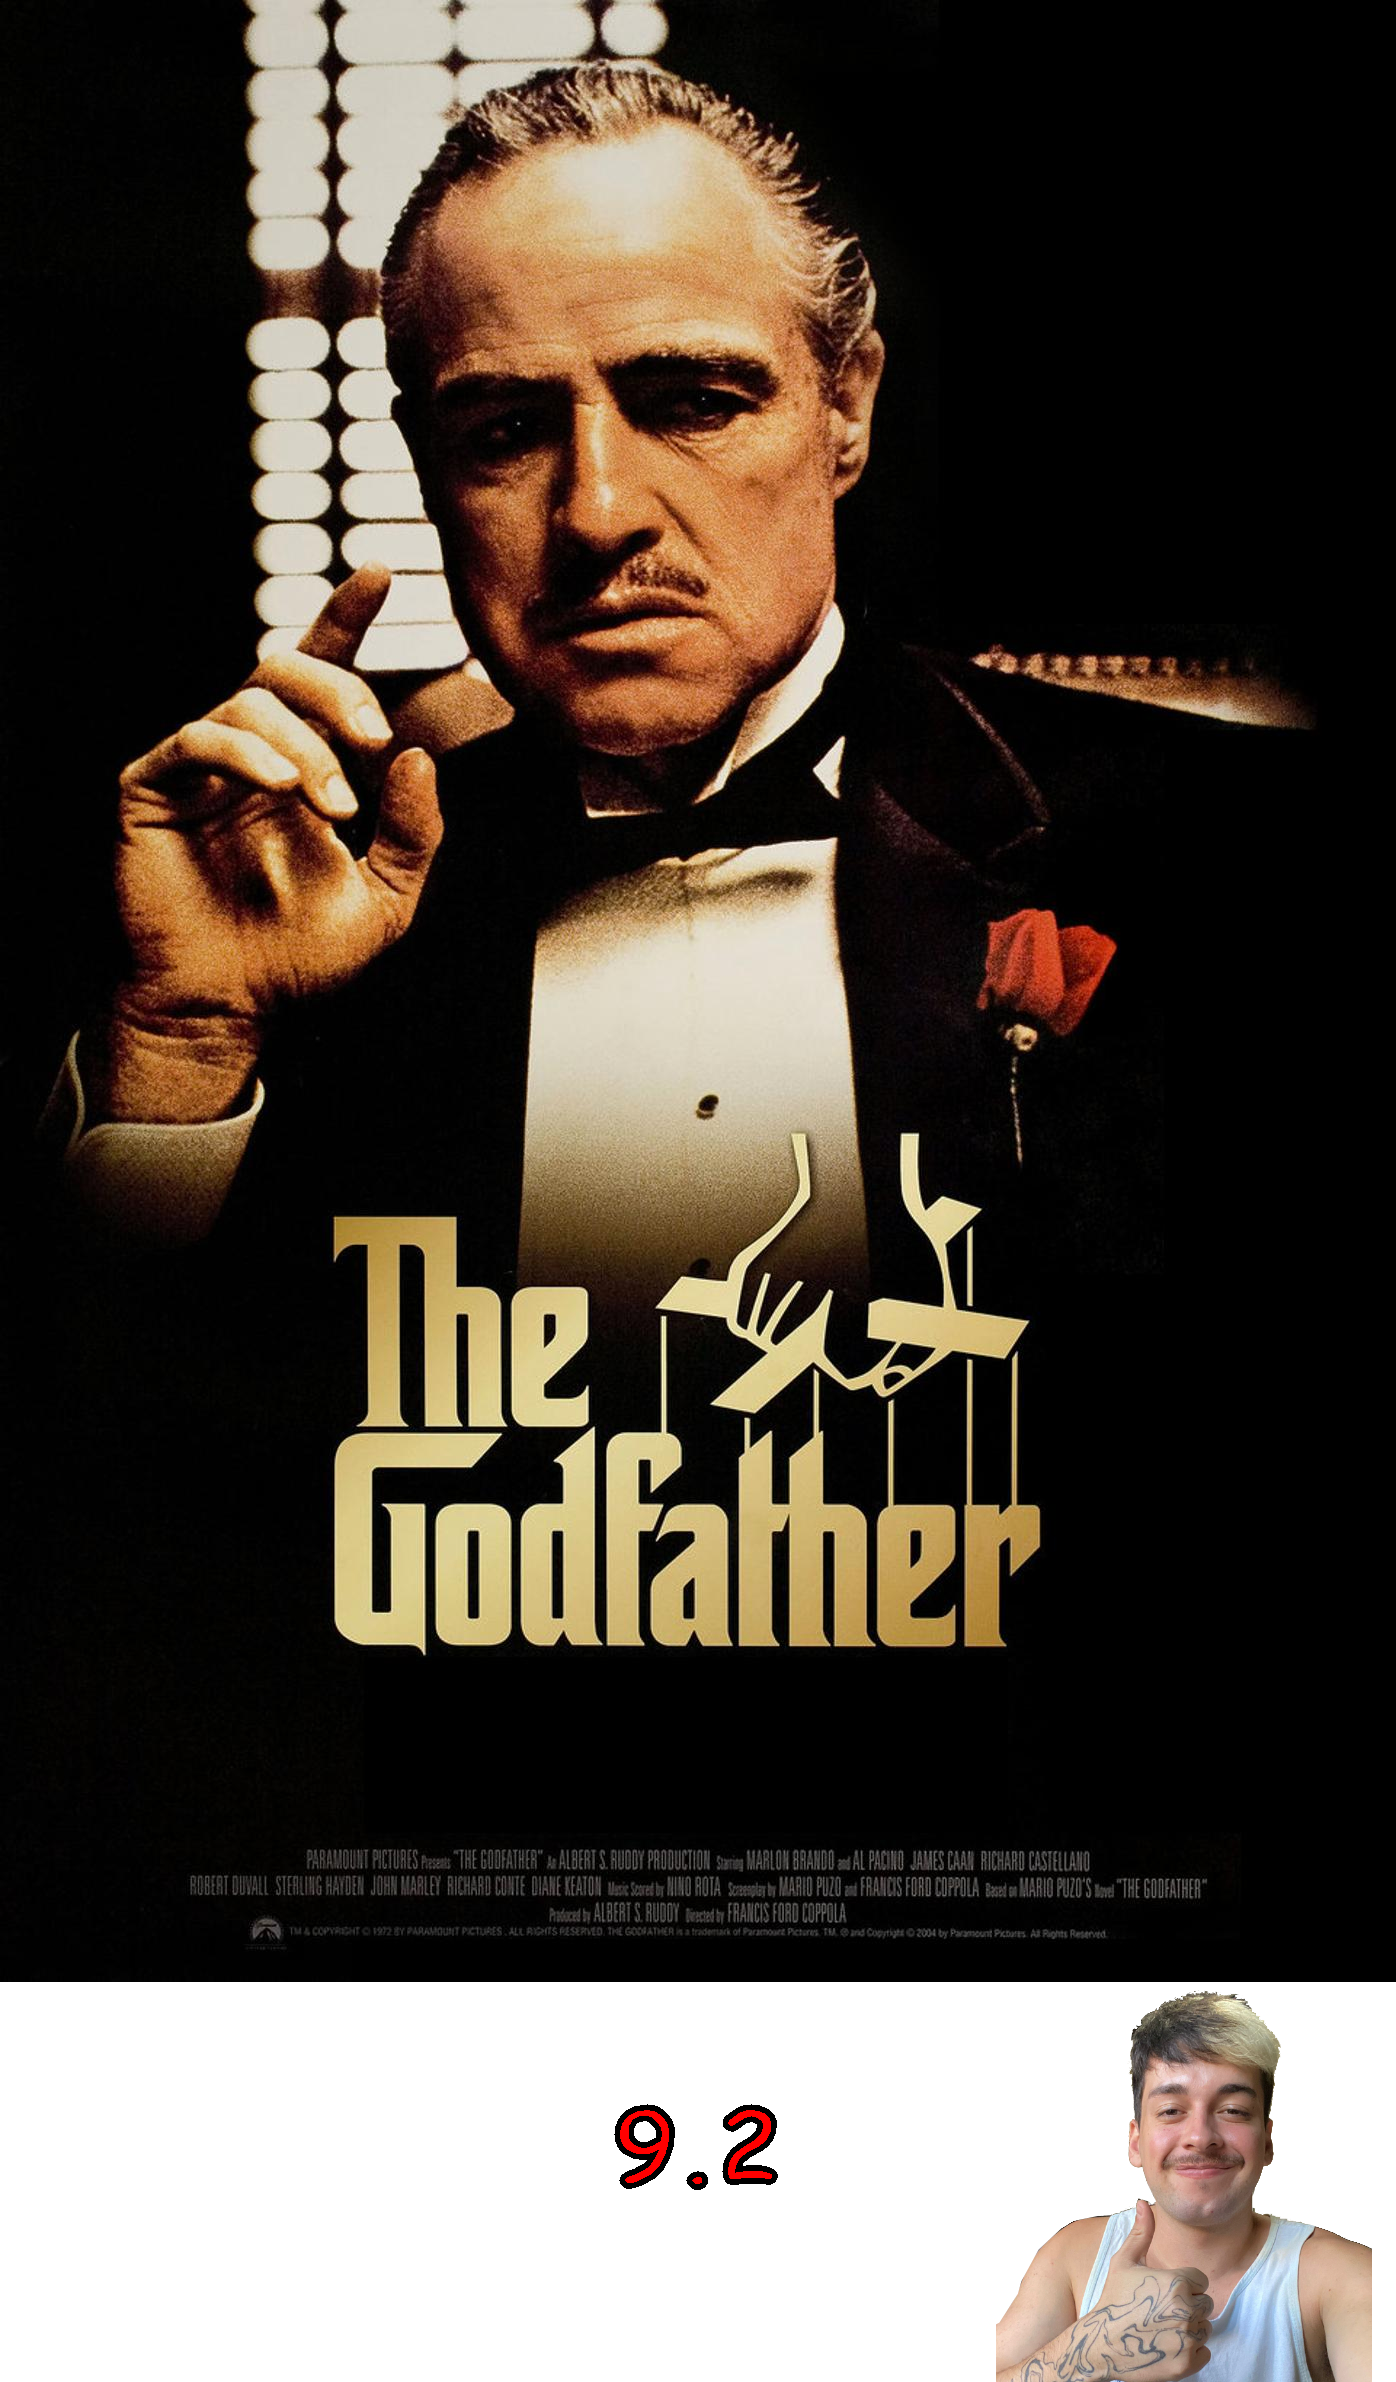
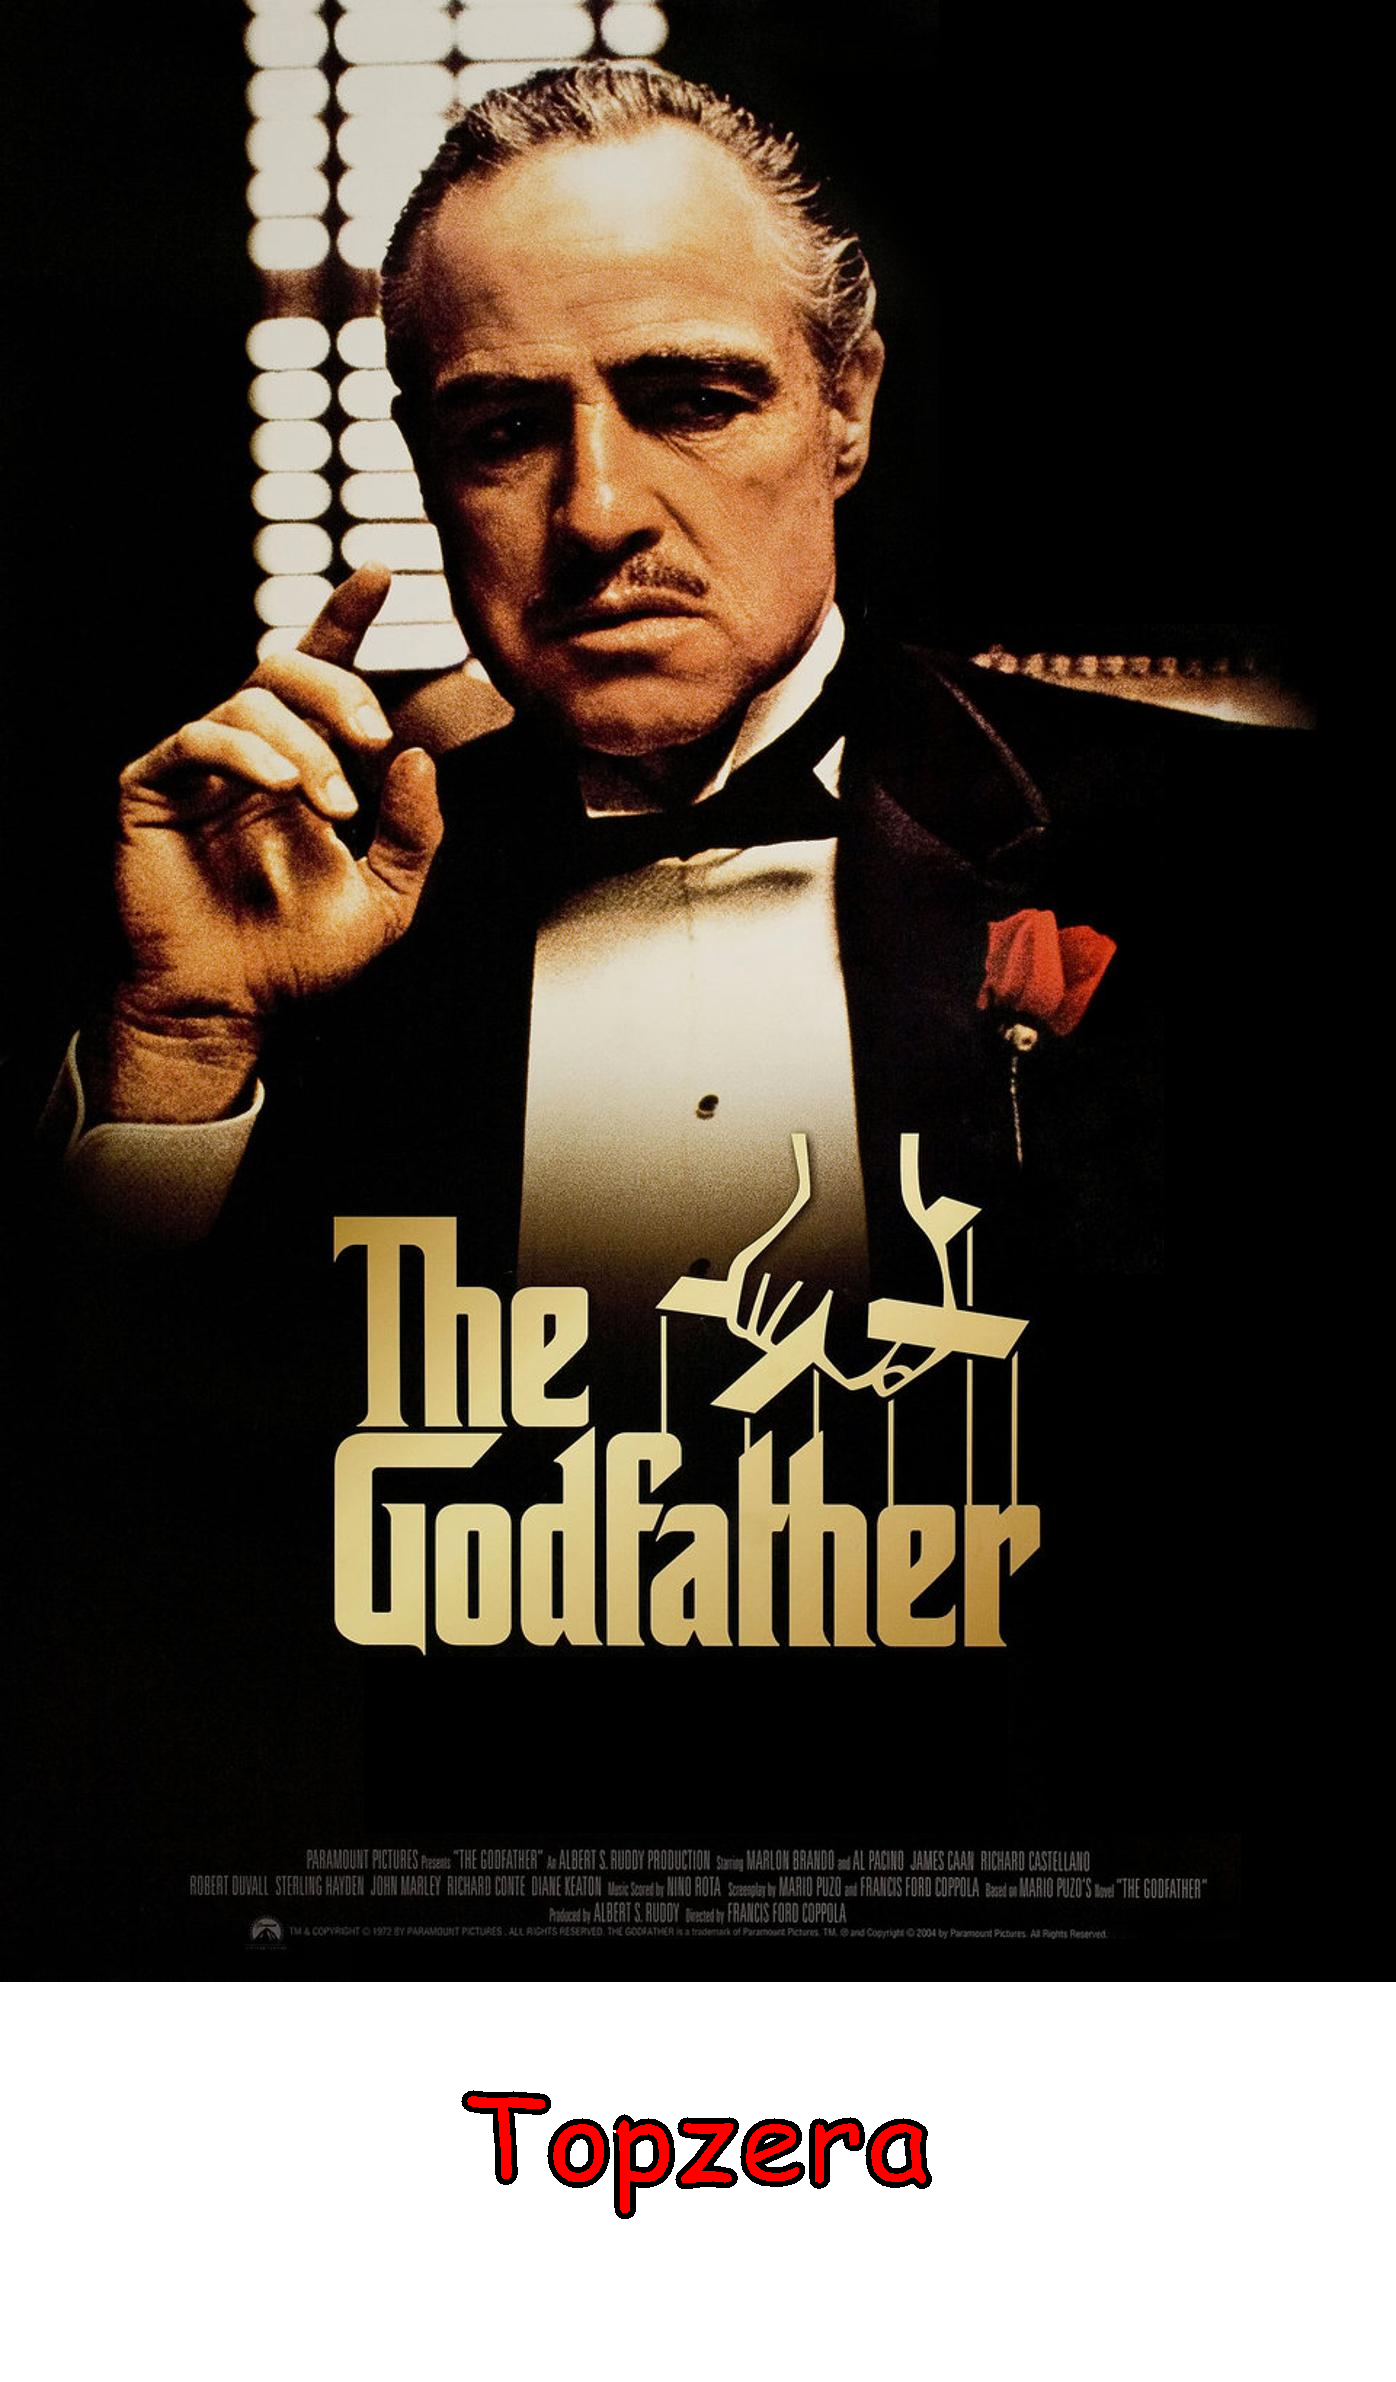
Terceira aula

Changed region(s): [[0.7085, 0.8388, 0.9857, 1.0], [0.3388, 0.8699, 0.6777, 0.932]]

diff --git a/src/App.java b/src/App.java
@@ -1,52 +1,36 @@
 import java.io.InputStream;
-import java.net.URI;
 import java.net.URL;
-import java.net.http.HttpClient;
-import java.net.http.HttpRequest;
-import java.net.http.HttpResponse;
-import java.net.http.HttpResponse.BodyHandlers;
 import java.util.List;
-import java.util.Map;
 
 public class App {
     public static void main(String[] args) throws Exception {
         // fazer uma conexao HTTP e buscar os top 250 filmes imdb
 
         String url = "https://raw.githubusercontent.com/alura-cursos/imersao-java-2-api/main/TopMovies.json";
-        URI address = URI.create(url);
-        HttpClient client = HttpClient.newHttpClient();
-        HttpRequest request = HttpRequest.newBuilder(address).GET().build();
-        HttpResponse<String> response = client.send(request, BodyHandlers.ofString());
-        String body = response.body();
+        ExtratorDeConteudos extrator = new ExtratorDeConteudoDoIMDB();
 
-        // pegar só os dados que interessam: titulo, poster e classificacao
-        JsonParser parser = new JsonParser();
-        List<Map<String, String>> listaDeFilmes = parser.parse(body);
+        // String url =
+        // "https://api.nasa.gov/planetary/apod?api_key=eWg4JHWqe2Ioe8Iu9M2ueuQGtjdptP5OExNlF8N9&start_date=2022-06-12&end_date=2022-06-14";
+        // ExtratorDeConteudoDaNasa extrator = new ExtratorDeConteudoDaNasa();
+
+        ClienteHttp http = new ClienteHttp();
+        String json = http.buscaDados(url);
 
         // exibir e manipular os dados
+        List<Conteudo> conteudos = extrator.extraiConteudos(json);
+
         GeradoraDeFigurinhas geradora = new GeradoraDeFigurinhas();
-        for (Map<String, String> filme : listaDeFilmes) {
-            String urlImage = filme.get("image");
-            String fullTitle = filme.get("fullTitle");
-            String filmName = fullTitle + ".png";
-            String archiveName = filmName.replace(":", "-");
-            String imdbRating = filme.get("imDbRating");
+        for (Conteudo conteudo : conteudos) {
 
-            InputStream inputStream = new URL(urlImage).openStream();
+            String nomeArquivo = conteudo.getTitle() + ".png";
+            InputStream inputStream = new URL(conteudo.getUrlImagem()).openStream();
 
-            geradora.cria(inputStream, archiveName,imdbRating);
+            geradora.cria(inputStream, nomeArquivo);
 
-            System.out.println("\u001b[0mTítulo: \033[1;90m\u001b[47m\t" + fullTitle + "\u001b[0m");
-            System.out.println("\u001b[0mPoster: \u001b[34m\u001b[4m\t" + urlImage + "\u001b[0m");
-            System.out.print("\u001b[0mClassificação:  \033[1;90m" + imdbRating + "\u001b[0m ");
+            System.out.println("\u001b[0mTítulo: \033[1;90m\u001b[47m\t" + conteudo.getTitle() + "\u001b[0m");
+            System.out.println("\u001b[0mPoster: \u001b[34m\u001b[4m\t" + conteudo.getUrlImagem() + "\u001b[0m");
+            System.out.println();
 
-            double doubleRating = Double.valueOf(imdbRating);
-            int intRating = (int) doubleRating;
-
-            for (int i = 0; i < intRating; i++) {
-                System.out.print("⭐");
-            }
-            System.out.println("\n");
         }
     }
 }

diff --git a/src/GeradoraDeFigurinhas.java b/src/GeradoraDeFigurinhas.java
@@ -10,14 +10,13 @@ import java.awt.geom.AffineTransform;
 import java.awt.geom.Rectangle2D;
 import java.awt.image.BufferedImage;
 import java.io.File;
-import java.io.FileInputStream;
 import java.io.InputStream;
 
 import javax.imageio.ImageIO;
 
 public class GeradoraDeFigurinhas {
 
-    public void cria(InputStream inputStream, String archiveName, String imdbRating) throws Exception {
+    public void cria(InputStream inputStream, String archiveName) throws Exception {
 
         // leitura da imagem
         // InputStream inputStream = new FileInputStream(new
@@ -38,24 +37,22 @@ public class GeradoraDeFigurinhas {
         Graphics2D graphics = (Graphics2D) newImage.getGraphics();
         graphics.drawImage(imageOriginal, 0, 0, null);
 
-        BufferedImage imageLike = ImageIO.read(new FileInputStream(new File("images/LIKE.png")));
-        graphics.drawImage(imageLike, width-400, height, null);
-
         // configurar a fonte
-        Font font = new Font("Comic Sans MS", Font.BOLD, 100);
+        Font font = new Font("Comic Sans MS", Font.BOLD, 120);
         graphics.setColor(Color.RED);
         graphics.setFont(font);
 
         // escrever uma frase na nova imagem
         FontMetrics fontMetrics = graphics.getFontMetrics();
-        Rectangle2D rectangle = fontMetrics.getStringBounds(imdbRating, graphics);
+        String text = "Topzera";
+        Rectangle2D rectangle = fontMetrics.getStringBounds(text, graphics);
         int textWidth = (int) rectangle.getWidth();
         int positionX = (width - textWidth) / 2;
         int positionY = newHeight - 200;
-        graphics.drawString(imdbRating, positionX, positionY);
+        graphics.drawString(text, positionX, positionY);
 
         FontRenderContext fontRenderContext = graphics.getFontRenderContext();
-        TextLayout textLayout = new TextLayout(imdbRating, font, fontRenderContext);
+        TextLayout textLayout = new TextLayout(text, font, fontRenderContext);
 
         Shape outline = textLayout.getOutline(null);
         AffineTransform transform = graphics.getTransform();

diff --git a/src/ExtratorDeConteudoDoIMDB.java b/src/ExtratorDeConteudoDoIMDB.java
@@ -1,0 +1,26 @@
+import java.util.ArrayList;
+import java.util.List;
+import java.util.Map;
+
+public class ExtratorDeConteudoDoIMDB implements ExtratorDeConteudos {
+
+    public List<Conteudo> extraiConteudos(String json) {
+
+        // pegar só os dados que interessam: titulo, poster e classificacao
+        JsonParser parser = new JsonParser();
+        List<Map<String, String>> listaDeAtributos = parser.parse(json);
+
+        List<Conteudo> conteudos = new ArrayList<Conteudo>();
+
+        // popular a lista de conteudos
+        for (Map<String, String> atributos : listaDeAtributos) {
+            String tituloInteiro = atributos.get("fullTitle");
+            String titulo = tituloInteiro.replace(":", " -");
+            String urlImagem = atributos.get("image");
+            Conteudo conteudo = new Conteudo(titulo, urlImagem);
+
+            conteudos.add(conteudo);
+        }
+        return conteudos;
+    }
+}

diff --git a/src/ExtratorDeConteudoDaNasa.java b/src/ExtratorDeConteudoDaNasa.java
@@ -1,0 +1,26 @@
+import java.util.ArrayList;
+import java.util.List;
+import java.util.Map;
+
+public class ExtratorDeConteudoDaNasa implements ExtratorDeConteudos {
+
+    public List<Conteudo> extraiConteudos(String json) {
+
+        // pegar só os dados que interessam: titulo, poster e classificacao
+        JsonParser parser = new JsonParser();
+        List<Map<String, String>> listaDeAtributos = parser.parse(json);
+
+        List<Conteudo> conteudos = new ArrayList<>();
+
+        // popular a lista de conteudos
+        for (Map<String, String> atributos : listaDeAtributos) {
+            String tituloInteiro = atributos.get("title");
+            String titulo = tituloInteiro.replace(":", " -");
+            String urlImagem = atributos.get("url");
+            Conteudo conteudo = new Conteudo(titulo, urlImagem);
+
+            conteudos.add(conteudo);
+        }
+        return conteudos;
+    };
+}

diff --git a/src/ClienteHttp.java b/src/ClienteHttp.java
@@ -1,0 +1,24 @@
+import java.io.IOException;
+import java.net.URI;
+import java.net.http.HttpClient;
+import java.net.http.HttpRequest;
+import java.net.http.HttpResponse;
+import java.net.http.HttpResponse.BodyHandlers;
+
+public class ClienteHttp {
+
+    public String buscaDados(String url) {
+        try {
+            URI endereço = URI.create(url);
+            HttpClient client = HttpClient.newHttpClient();
+            HttpRequest request = HttpRequest.newBuilder(endereço).GET().build();
+            HttpResponse<String> response = client.send(request, BodyHandlers.ofString());
+            String body = response.body();
+            return body;
+        } catch (IOException | InterruptedException ex) {            
+            throw new RuntimeException(ex);
+        }
+       
+    }
+
+}

diff --git a/src/Conteudo.java b/src/Conteudo.java
@@ -1,0 +1,17 @@
+public class Conteudo {
+    private final String title;
+    private final String urlImagem;
+
+    public Conteudo(String title, String urlImagem) {
+        this.title = title;
+        this.urlImagem = urlImagem;
+    }
+
+    public String getTitle() {
+        return title;
+    }
+
+    public String getUrlImagem() {
+        return urlImagem;
+    }
+}

diff --git a/src/ExtratorDeConteudos.java b/src/ExtratorDeConteudos.java
@@ -1,0 +1,7 @@
+import java.util.List;
+
+public interface ExtratorDeConteudos {
+
+    public List<Conteudo> extraiConteudos(String json);
+
+}
